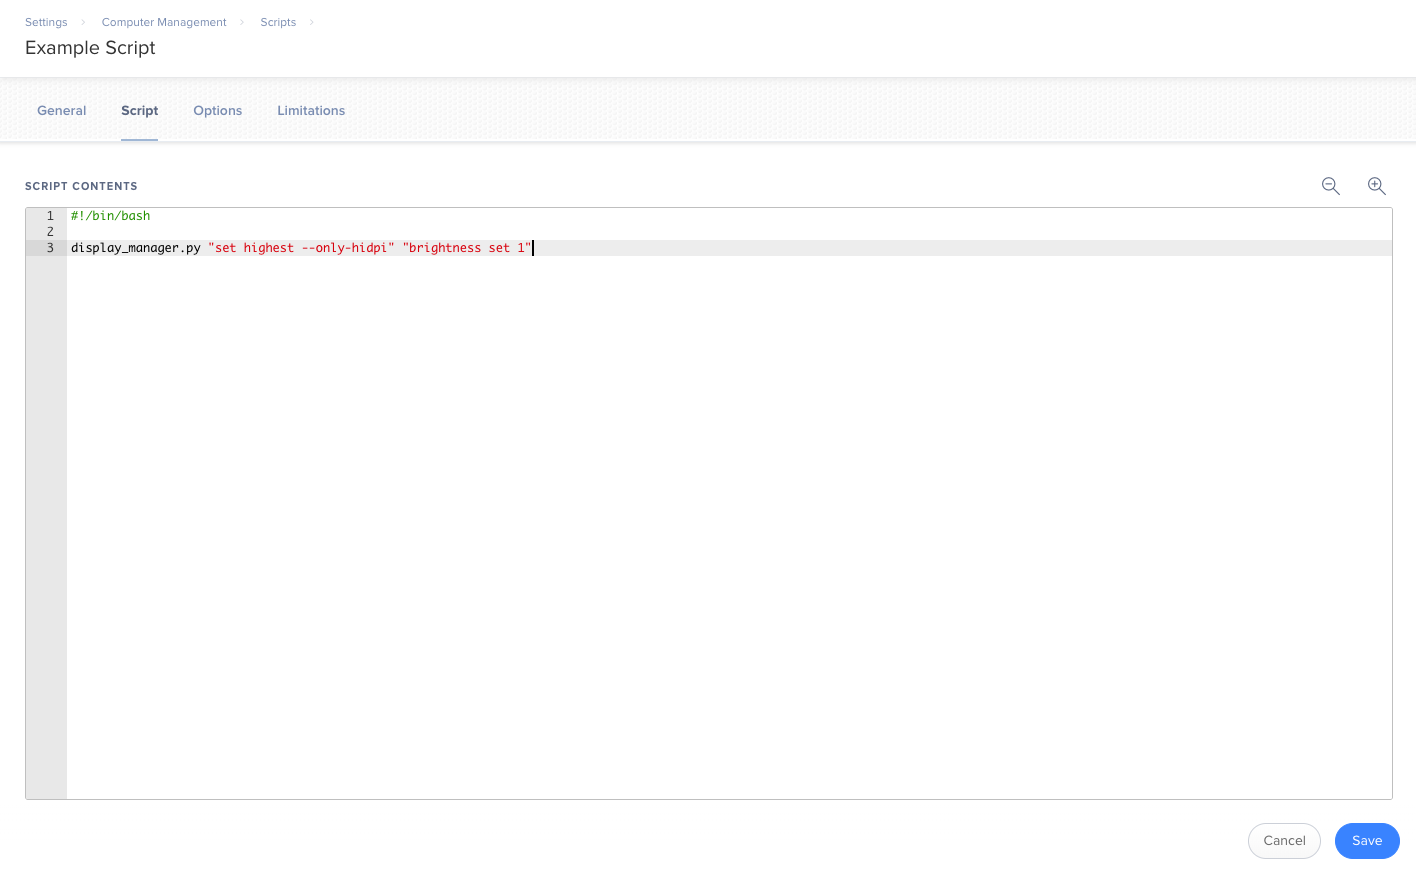
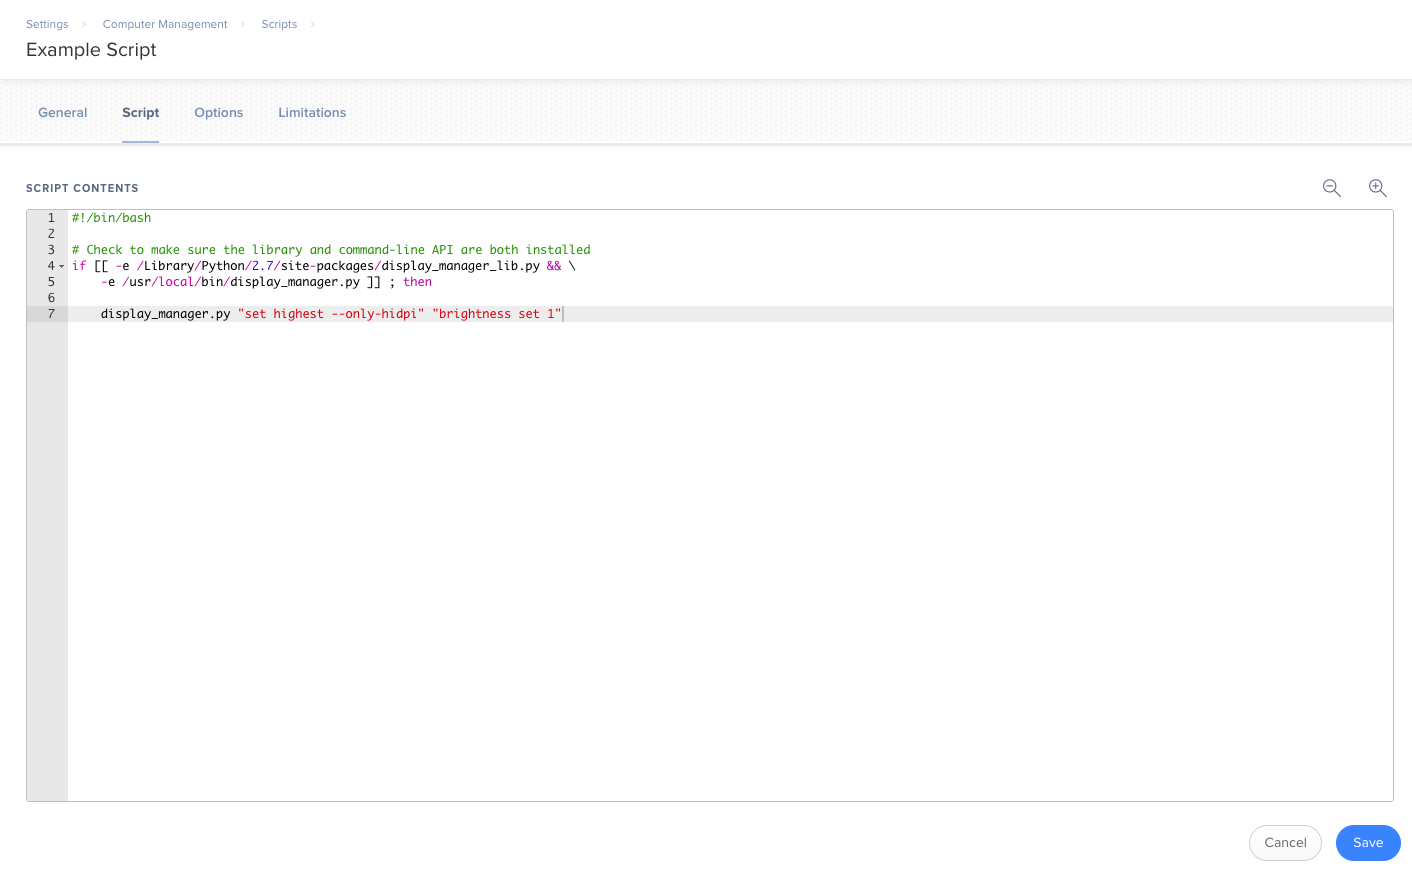
updated readme (including images)

diff --git a/README.md b/README.md
@@ -413,9 +413,12 @@ and add a script containing the following to it
 
 ```
 #!/bin/bash
-# (or whichever shell you prefer)
 
-display_manager.py "set highest --only-hidpi" "brightness set 1"
+# Check to make sure the library and command-line API are both installed
+if [[ -e /Library/Python/2.7/site-packages/display_manager_lib.py && \
+	-e /usr/local/bin/display_manager.py ]] ; then
+	
+	display_manager.py "set highest --only-hidpi" "brightness set 1"
 ```
 
 like so:
@@ -432,9 +435,12 @@ Perhaps you're managing several wall-mounted HDMI displays that are flipped upsi
 
 ```
 #!/bin/bash
-# (or whichever shell you prefer)
 
-display_manager.py "rotate set 180" "underscan set .5"
+# Check to make sure the library and command-line API are both installed
+if [[ -e /Library/Python/2.7/site-packages/display_manager_lib.py && \
+	-e /usr/local/bin/display_manager.py ]] ; then
+	
+	display_manager.py "rotate set 180" "underscan set .5"
 ```
 
 For more details about command-line usage, see [here](#command-line-usage); for examples, see [command-line examples](#command-line-examples).
